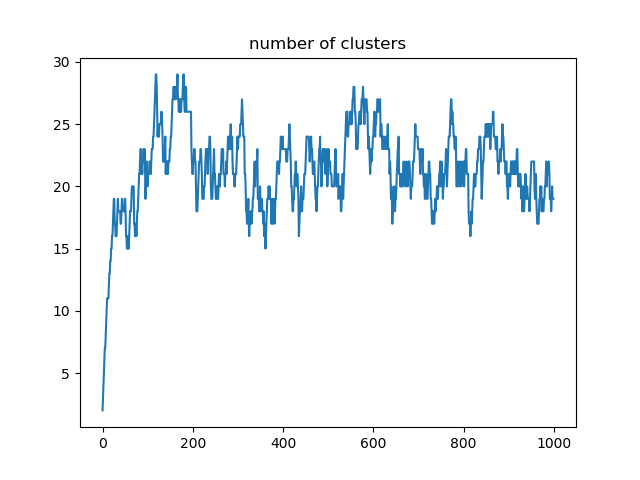
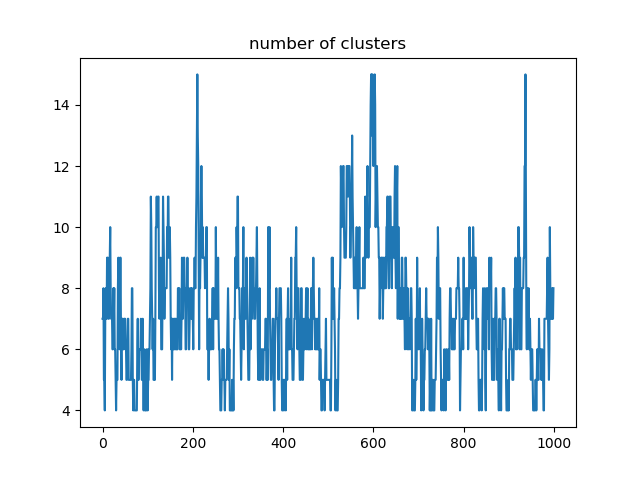
finished?

diff --git a/4/three_models.py b/4/three_models.py
@@ -205,6 +205,10 @@ class Gibbs:
 
         if self.c[ind] == num_unique:
             self.theta[num_unique] = np.random.beta(self.a0 + xx, self.b0 + 20 - xx)
+        else:
+            aa = self.a0 + np.sum([xx for ix, xx in enumerate(self.X) if self.c[ix] == self.c[ind]])
+            bb = self.b0 + np.sum([20 - xx for ix, xx in enumerate(self.X) if self.c[ix] == self.c[ind]])
+            self.theta[self.c[ind]] = np.random.beta(aa, bb)
 
 
 if __name__ == '__main__':
